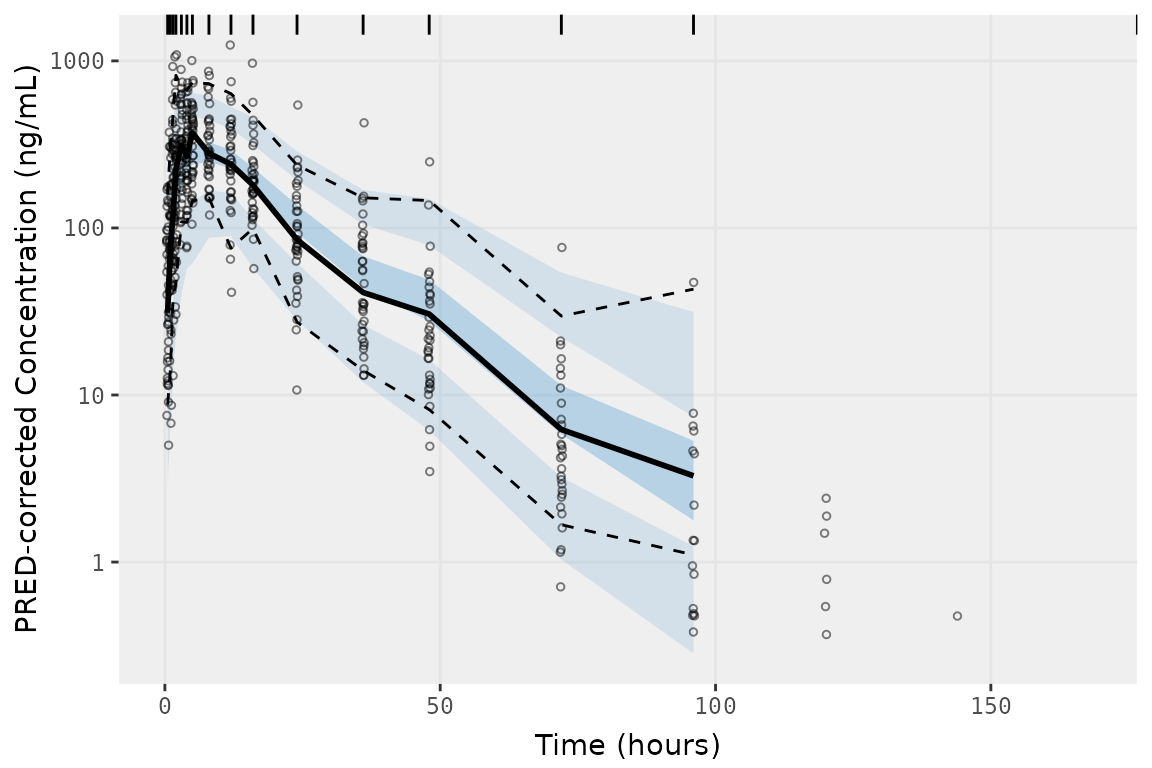
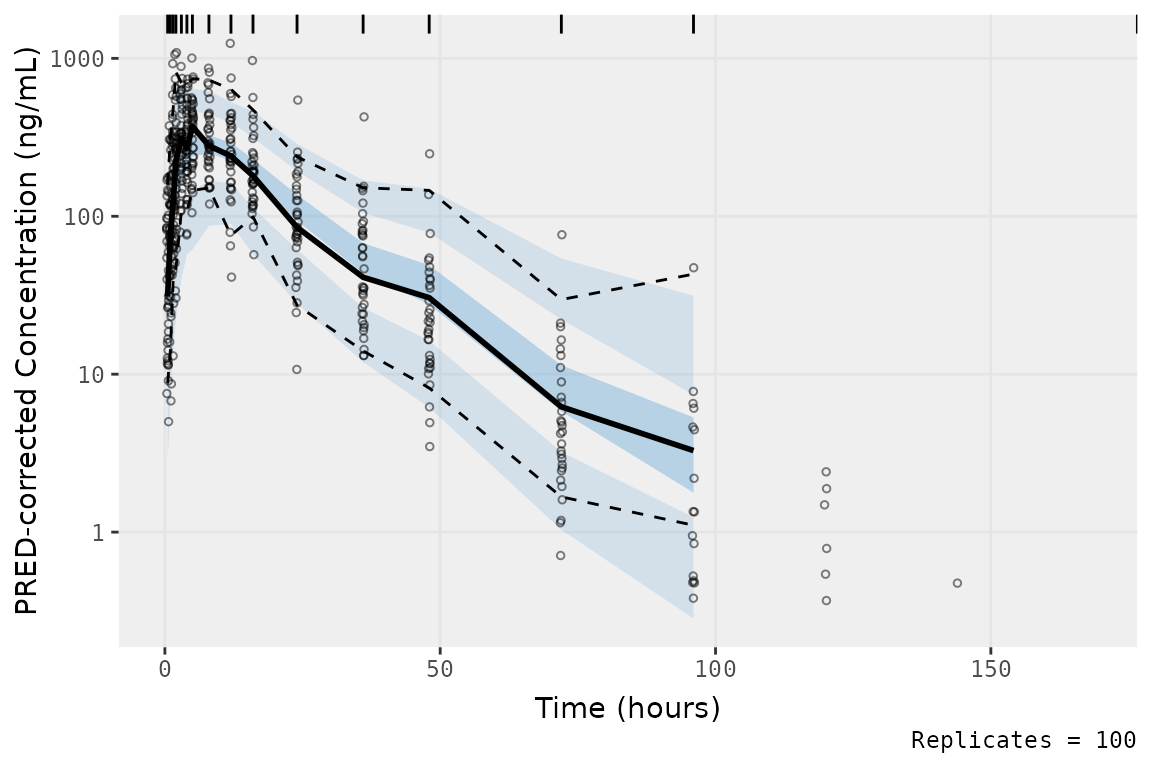
Deploying to gh-pages from @ ryancrass/pmxhelpr@79d35897ffc4edc59b1c0b4d336891869f2e5bd1 🚀

diff --git a/articles/vpc-exact-bins.html b/articles/vpc-exact-bins.html
@@ -69,7 +69,7 @@ function for datasets containing exact bins as the motivating example
 for development <code><a href="../reference/plot_vpc_exactbins.html">plot_vpc_exactbins()</a></code>. First we will load
 the required packages.</p>
 <div class="sourceCode" id="cb1"><pre class="downlit sourceCode r">
-<code class="sourceCode R"><span><span class="fu"><a href="https://rdrr.io/r/base/options.html" class="external-link">options</a></span><span class="op">(</span>scipen <span class="op">=</span> <span class="fl">999</span><span class="op">)</span></span>
+<code class="sourceCode R"><span><span class="fu"><a href="https://rdrr.io/r/base/options.html" class="external-link">options</a></span><span class="op">(</span>scipen <span class="op">=</span> <span class="fl">999</span>, rmarkdown.html_vignette.check_title <span class="op">=</span> <span class="cn">FALSE</span><span class="op">)</span></span>
 <span><span class="kw"><a href="https://rdrr.io/r/base/library.html" class="external-link">library</a></span><span class="op">(</span><span class="va"><a href="https://github.com/ryancrass/pmxhelpr" class="external-link">pmxhelpr</a></span><span class="op">)</span></span>
 <span><span class="kw"><a href="https://rdrr.io/r/base/library.html" class="external-link">library</a></span><span class="op">(</span><span class="va"><a href="https://dplyr.tidyverse.org" class="external-link">dplyr</a></span>, warn.conflicts <span class="op">=</span>  <span class="cn">FALSE</span><span class="op">)</span></span>
 <span><span class="kw"><a href="https://rdrr.io/r/base/library.html" class="external-link">library</a></span><span class="op">(</span><span class="va"><a href="https://ggplot2.tidyverse.org" class="external-link">ggplot2</a></span>, warn.conflicts <span class="op">=</span>  <span class="cn">FALSE</span><span class="op">)</span></span>
@@ -890,12 +890,12 @@ not plotted for the final two timepoint containing only fewer than 10
 quantifiable observations; however, the observations themselves are
 still plotted.</p>
 <p>We can also pass stratifying variables to the argument
-<code>strat_vars</code> in order to facet our plots by relevant
-extrinsic study design covariates or intrinsic subject covariates. The
-stratify variables specified in <code>strat_vars</code> are also passed
-to the <code>stratify</code> argument of <code><a href="https://rdrr.io/pkg/vpc/man/vpc.html" class="external-link">vpc()</a></code> in order to
-facet the resulting plots. Currently, only up to two variables can be
-passed to this argument.</p>
+<code>strat_var</code> in order to facet our plots by relevant extrinsic
+study design covariates or intrinsic subject covariates. The stratify
+variables specified in <code>strat_var</code> are also passed to the
+<code>stratify</code> argument of <code><a href="https://rdrr.io/pkg/vpc/man/vpc.html" class="external-link">vpc()</a></code> in order to facet
+the resulting plots. Currently, only one variable can be passed to this
+argument.</p>
 <div class="sourceCode" id="cb25"><pre class="downlit sourceCode r">
 <code class="sourceCode R"><span><span class="va">vpc_exact_food</span> <span class="op">&lt;-</span> <span class="fu"><a href="../reference/plot_vpc_exactbins.html">plot_vpc_exactbins</a></span><span class="op">(</span></span>
 <span>  sim <span class="op">=</span> <span class="fu"><a href="https://dplyr.tidyverse.org/reference/mutate.html" class="external-link">mutate</a></span><span class="op">(</span><span class="va">simout</span>, FOOD_f <span class="op">=</span> <span class="fu"><a href="https://rdrr.io/r/base/factor.html" class="external-link">factor</a></span><span class="op">(</span><span class="va">FOOD</span>, levels <span class="op">=</span> <span class="fu"><a href="https://rdrr.io/r/base/c.html" class="external-link">c</a></span><span class="op">(</span><span class="fl">0</span>,<span class="fl">1</span><span class="op">)</span>, labels <span class="op">=</span> <span class="fu"><a href="https://rdrr.io/r/base/c.html" class="external-link">c</a></span><span class="op">(</span><span class="st">"Fasted"</span>, <span class="st">"Fed"</span><span class="op">)</span><span class="op">)</span><span class="op">)</span>, </span>
@@ -911,7 +911,7 @@ passed to this argument.</p>
 <span><span class="op">)</span></span>
 <span></span>
 <span><span class="va">vpc_exact_food</span></span></code></pre></div>
-<p><img src="vpc-exact-bins_files/figure-html/r%20plot-exact-min-bin-count-1.png" width="576"></p>
+<p><img src="vpc-exact-bins_files/figure-html/plot-exact-one-strata-1.png" width="576"></p>
   </main>
 </div>
 

diff --git a/reference/plot_vpc_exactbins.html b/reference/plot_vpc_exactbins.html
@@ -50,10 +50,11 @@ that returns a <code>ggplot2</code> object.</p>
 <span>  pcvpc <span class="op">=</span> <span class="cn">FALSE</span>,</span>
 <span>  time_vars <span class="op">=</span> <span class="fu"><a href="https://rdrr.io/r/base/c.html" class="external-link">c</a></span><span class="op">(</span>TIME <span class="op">=</span> <span class="st">"TIME"</span>, NTIME <span class="op">=</span> <span class="st">"NTIME"</span><span class="op">)</span>,</span>
 <span>  output_vars <span class="op">=</span> <span class="fu"><a href="https://rdrr.io/r/base/c.html" class="external-link">c</a></span><span class="op">(</span>PRED <span class="op">=</span> <span class="st">"PRED"</span>, IPRED <span class="op">=</span> <span class="st">"IPRED"</span>, SIMDV <span class="op">=</span> <span class="st">"SIMDV"</span>, OBSDV <span class="op">=</span> <span class="st">"OBSDV"</span><span class="op">)</span>,</span>
-<span>  strat_vars <span class="op">=</span> <span class="cn">NULL</span>,</span>
+<span>  strat_var <span class="op">=</span> <span class="cn">NULL</span>,</span>
 <span>  irep_name <span class="op">=</span> <span class="st">"SIM"</span>,</span>
 <span>  min_bin_count <span class="op">=</span> <span class="fl">1</span>,</span>
 <span>  lower_bound <span class="op">=</span> <span class="fl">0</span>,</span>
+<span>  show_rep <span class="op">=</span> <span class="cn">TRUE</span>,</span>
 <span>  <span class="va">...</span></span>
 <span><span class="op">)</span></span></code></pre></div>
     </div>
@@ -80,9 +81,9 @@ Defaults are <code>"TIME"</code> and <code>"NTIME"</code>.</p></dd>
 Defaults are <code>"PRED"</code>, <code>"IPRED"</code>, and <code>"DV"</code>.</p></dd>
 
 
-<dt id="arg-strat-vars">strat_vars<a class="anchor" aria-label="anchor" href="#arg-strat-vars"></a></dt>
-<dd><p>Character vector of stratification variables passed to <code>stratify</code> argument
-of <code><a href="https://rdrr.io/pkg/vpc/man/vpc.html" class="external-link">vpc::vpc()</a></code>. Currently, maximum length = 2.</p></dd>
+<dt id="arg-strat-var">strat_var<a class="anchor" aria-label="anchor" href="#arg-strat-var"></a></dt>
+<dd><p>Character string of stratification variable passed to <code>stratify</code> argument
+of <code><a href="https://rdrr.io/pkg/vpc/man/vpc.html" class="external-link">vpc::vpc()</a></code>. Currently, only a single stratifying variable is supported.</p></dd>
 
 
 <dt id="arg-irep-name">irep_name<a class="anchor" aria-label="anchor" href="#arg-irep-name"></a></dt>
@@ -97,6 +98,10 @@ but retains these observations in the observed data points.</p></dd>
 
 <dt id="arg-lower-bound">lower_bound<a class="anchor" aria-label="anchor" href="#arg-lower-bound"></a></dt>
 <dd><p>Lower bound of the dependent variable for prediction correction. Default is <code>0</code>.</p></dd>
+
+
+<dt id="arg-show-rep">show_rep<a class="anchor" aria-label="anchor" href="#arg-show-rep"></a></dt>
+<dd><p>Display number of replicates as a plot caption. Default is <code>TRUE</code>.</p></dd>
 
 
 <dt id="arg--">...<a class="anchor" aria-label="anchor" href="#arg--"></a></dt>
